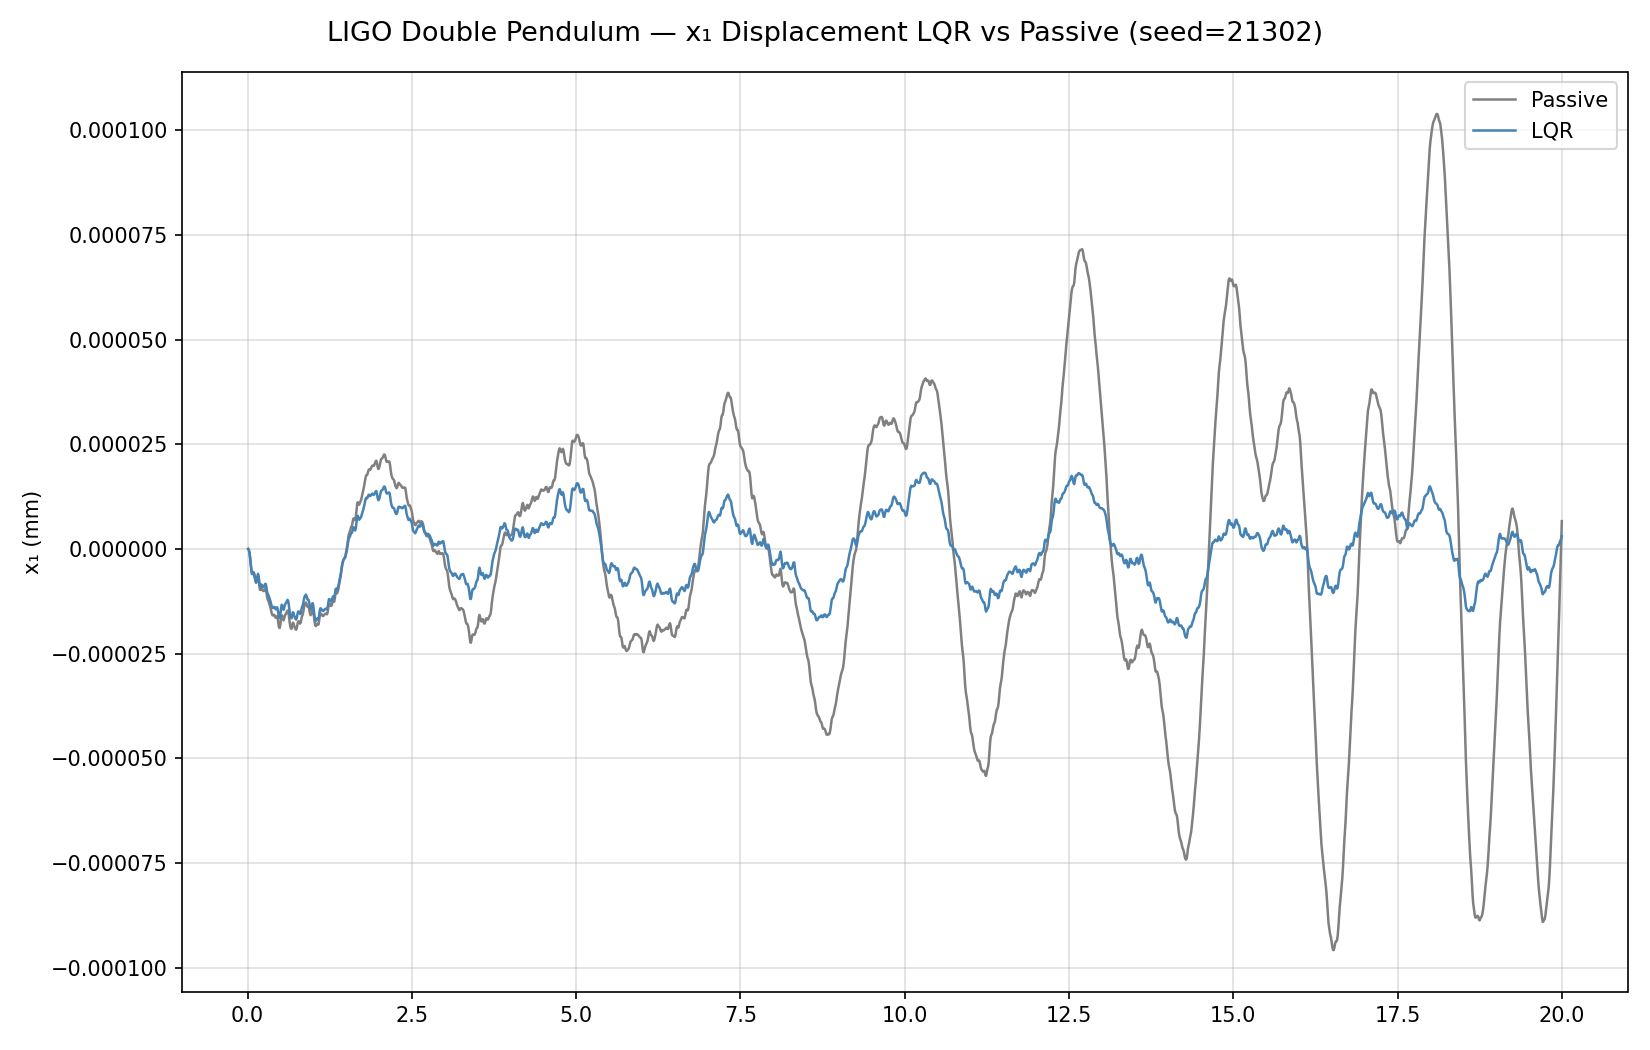
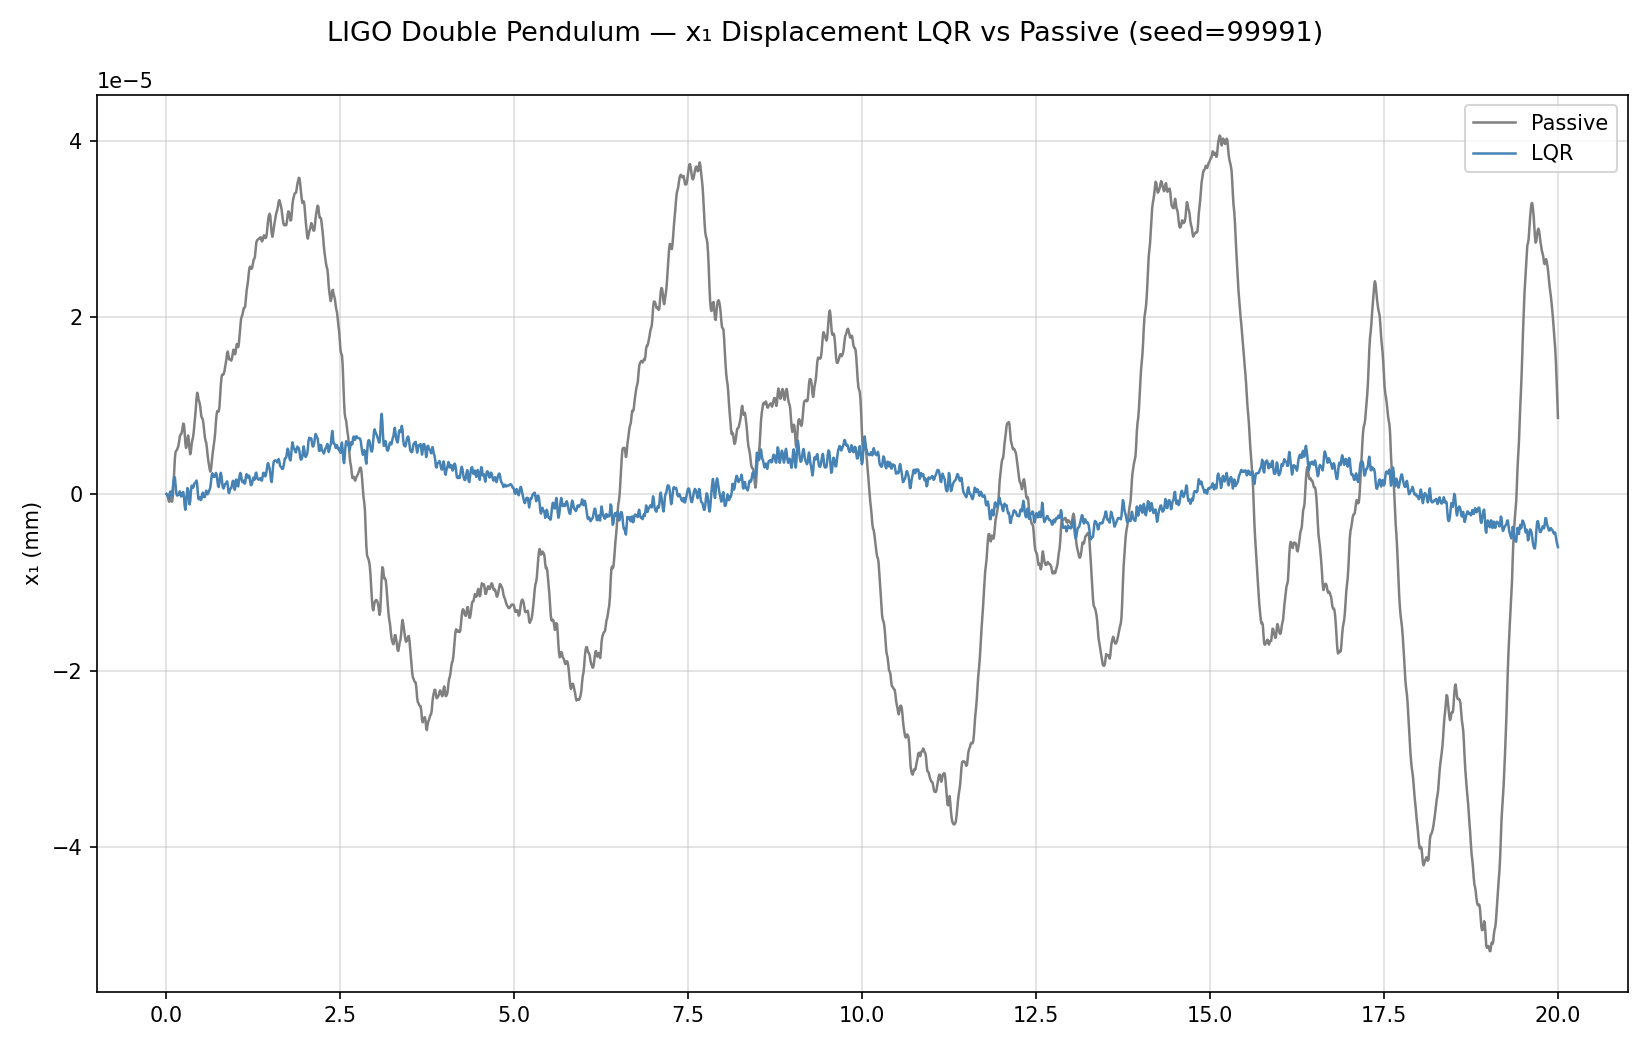
Debugged LQR

diff --git a/src/pendulum_sim/lqr_pipeline.py b/src/pendulum_sim/lqr_pipeline.py
@@ -14,7 +14,8 @@ import numpy as np
 from pendulum_sim.control import clipped_lqr_force, design_lqr_gain, linearize_dynamics
 from pendulum_sim.physics import L1, L2, equations_of_motion
 from pendulum_sim.wandb_utils import maybe_init_wandb_run
-from pendulum_sim.noise import config_from_env, sample_pivot_acceleration_sequence
+from pendulum_sim.noise import config_from_env
+from pendulum_sim.rl_helpers import sample_noise_sequence, lqr_force_from_state
 from pendulum_sim.params import SIM
 
 F_MAX = SIM.f_max_n
@@ -41,18 +42,19 @@ def design_lqr(A, B):
     return design_lqr_gain(A, B)
 
 
-def simulate(mode, K, seed):
+def simulate(mode, K, seed, lqr_scale=1e2):
     """Simulate one episode under passive or LQR control."""
     rng = np.random.default_rng(seed)
-    noise = sample_pivot_acceleration_sequence(N_STEPS + 10, DT, config=NOISE_CONFIG, seed=seed)
+    noise = sample_noise_sequence(N_STEPS + 10, DT, seed=seed)
     # Start at equilibrium so disturbance-driven motion dominates metrics.
     state = np.zeros(4, dtype=float)
 
     t_log, x1_log, x2_log, f_log, rew_log = [], [], [], [], []
+
     for step in range(N_STEPS):
         x_p_ddot = float(noise[step])
         if mode == "lqr":
-            force_val = clipped_lqr_force(state, K, F_MAX)
+            force_val = float(np.clip(lqr_scale * lqr_force_from_state(state, K), -F_MAX, F_MAX))
         else:
             force_val = 0.0
 

diff --git a/README.md b/README.md
@@ -191,28 +191,28 @@ pytest
 ## Latest Auto-Generated Run Summary
 
 ### RL (latest run)
-- Seed: `96599`
+- Seed: `29886`
 - Passive RMS x2: `0.000 mm`
-- RL RMS x2: `0.000 mm`
-- Improvement factor (passive/RL): `5.02x`
-- Reward initial/final: `-5.0239 -> -0.2095`
-- No-noise regulation final |x2|: `11.033 mm`
+- RL RMS x2: `0.005 mm`
+- Improvement factor (passive/RL): `0.00x`
+- Reward initial/final: `-111.0867 -> -222.2289`
+- No-noise regulation final |x2|: `11.019 mm`
 - Interpretation: If improvement is < 1.0x, the policy is still underperforming passive isolation and reward scaling/actuation strategy should be revisited.
 
 ### Simple controls / LQR (latest run)
-- Seed: `96801`
+- Seed: `99991`
 - Passive RMS x2: `0.000 mm`
 - LQR RMS x2: `0.000 mm`
-- Improvement factor (passive/LQR): `2.79x`
+- Improvement factor (passive/LQR): `6.16x`
 - Interpretation: This is your near-equilibrium model-based baseline; RL should eventually match or exceed this over repeated seeds.
 
 ### Unified evaluation modes (same seed)
-- Seed: `96599`
-- RL-only RMS x2: `0.000 mm`
+- Seed: `29886`
+- RL-only RMS x2: `0.005 mm`
 - LQR-only RMS x2: `0.000 mm`
-- Cascade RMS x2: `0.000 mm`
+- Cascade RMS x2: `0.001 mm`
 - Bad-LQR RMS x2: `0.000 mm`
-- Bad-Cascade RMS x2: `0.000 mm`
+- Bad-Cascade RMS x2: `0.001 mm`
 - Cascade alpha: `1.00`
 - Bad-LQR scale: `0.35`
 